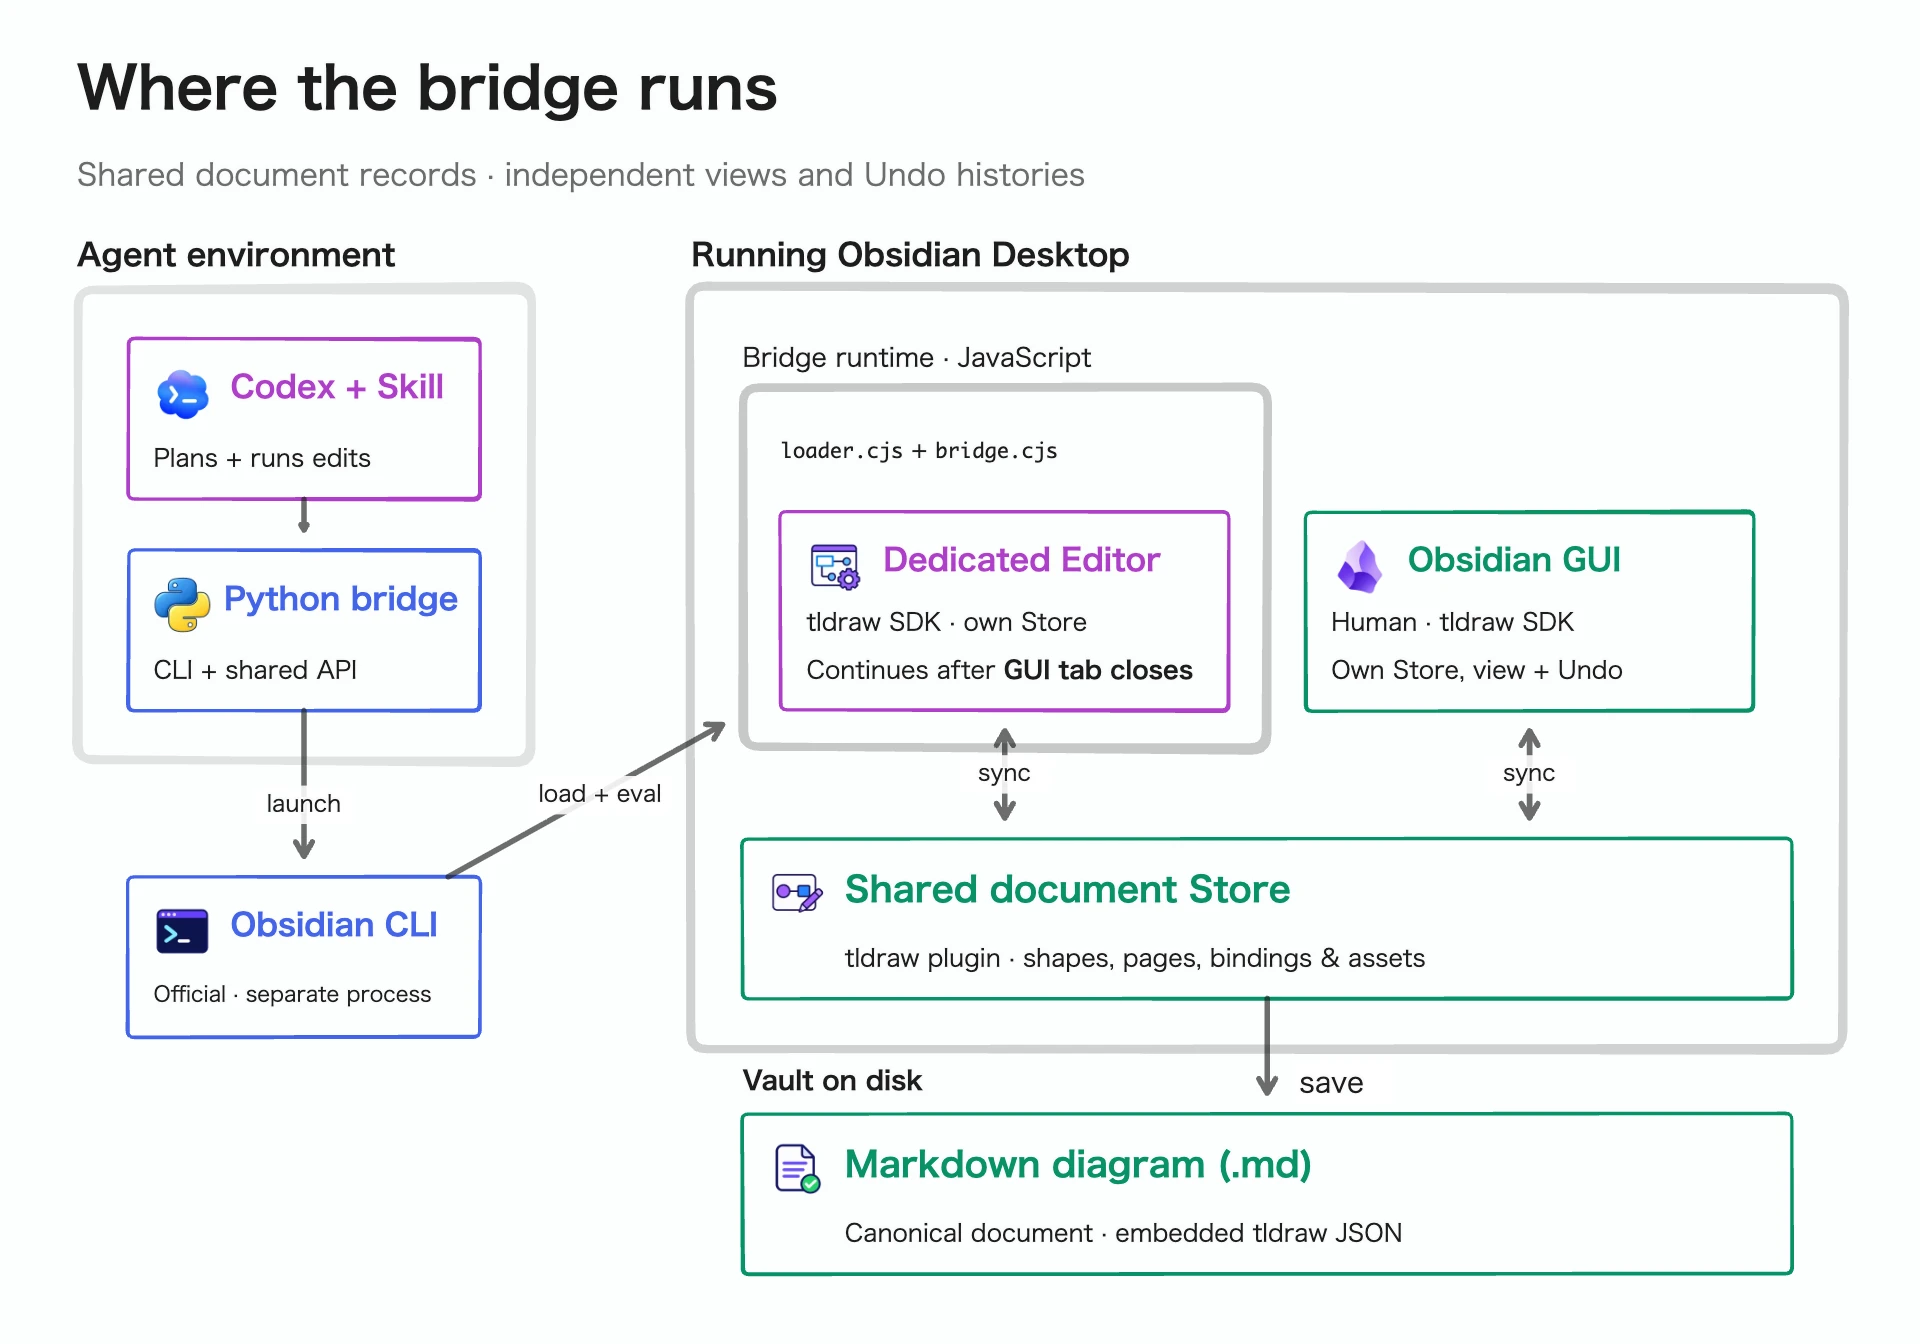
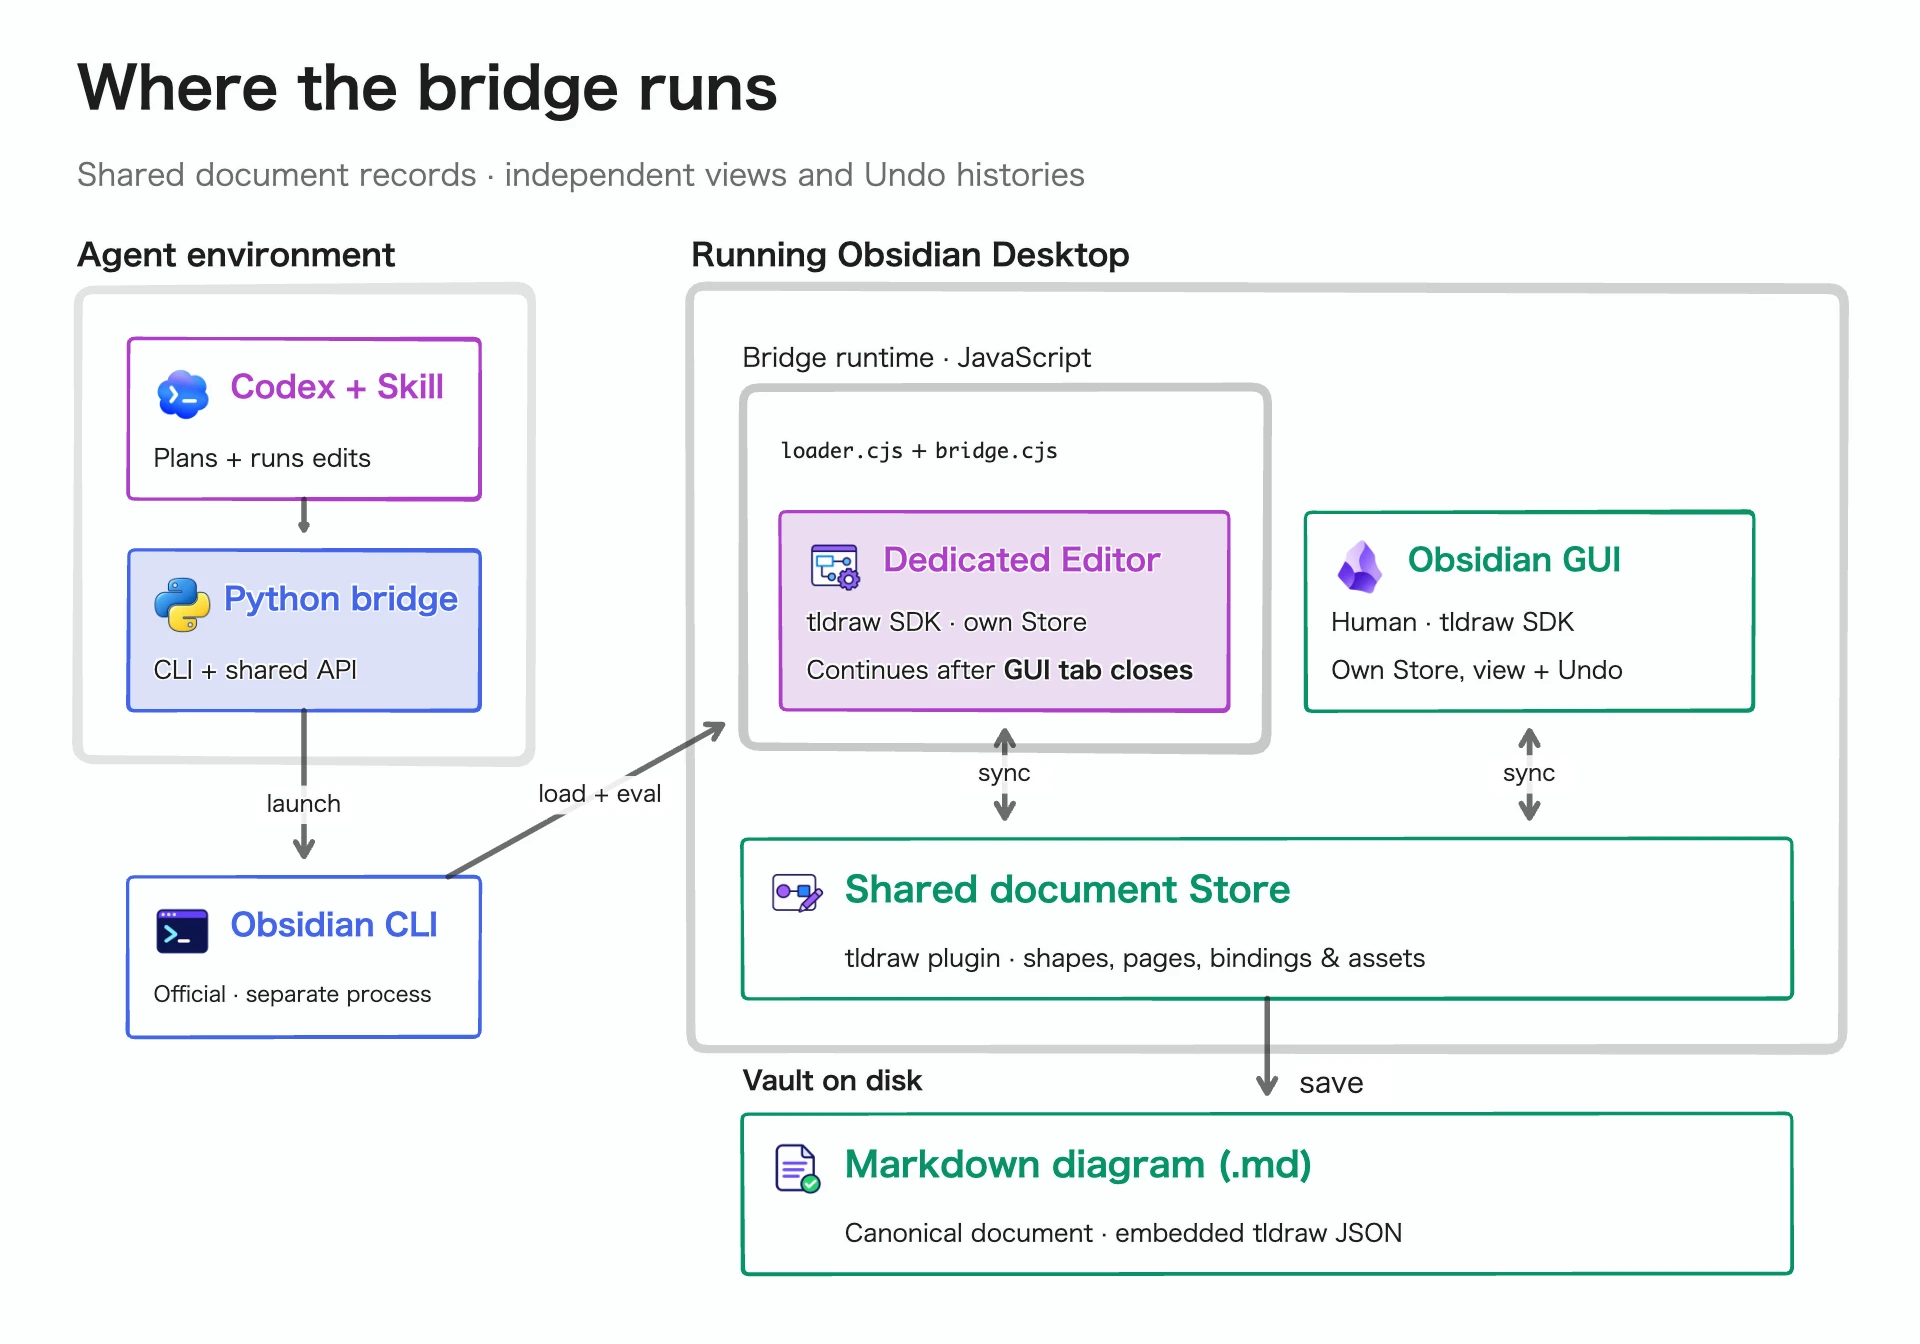
docs: refine diagram fills and refresh previews

Changed region(s): [[0.4062, 0.375, 0.6562, 0.5312], [0.0625, 0.4062, 0.25, 0.5312]]

diff --git a/docs/diagrams/diagramming-guide-design-system.md b/docs/diagrams/diagramming-guide-design-system.md
@@ -912,7 +912,7 @@ tags:
 					"flipY": false,
 					"color": "violet",
 					"labelColor": "black",
-					"fill": "solid",
+					"fill": "semi",
 					"size": "m",
 					"font": "sans",
 					"align": "start",
@@ -2184,7 +2184,7 @@ tags:
 					"flipY": false,
 					"color": "violet",
 					"labelColor": "black",
-					"fill": "solid",
+					"fill": "semi",
 					"size": "m",
 					"font": "sans",
 					"align": "start",
@@ -2677,7 +2677,7 @@ tags:
 					"flipY": false,
 					"color": "green",
 					"labelColor": "black",
-					"fill": "solid",
+					"fill": "semi",
 					"size": "m",
 					"font": "sans",
 					"align": "start",
@@ -4375,7 +4375,7 @@ tags:
 					"flipY": false,
 					"color": "green",
 					"labelColor": "black",
-					"fill": "solid",
+					"fill": "semi",
 					"size": "m",
 					"font": "sans",
 					"align": "start",
@@ -8244,7 +8244,7 @@ tags:
 					"flipY": false,
 					"color": "blue",
 					"labelColor": "black",
-					"fill": "none",
+					"fill": "semi",
 					"size": "s",
 					"font": "sans",
 					"align": "start",
@@ -9256,20 +9256,20 @@ tags:
 									"algorithm": "page-content-v2",
 									"sourcePageId": "page:page",
 									"source": {
[6 lines of base64/hex data omitted]
 										"hasAssets": false
 									},
 									"target": {
[6 lines of base64/hex data omitted]
 										"hasAssets": false
 									},
 									"kind": "adopt",
-									"reason": "Inspected both language pages at 1200px after matching heading emphasis; verified all original wording, shape IDs and bindings are preserved. English author heading widened to avoid wrapping.",
-									"reviewedAt": "2026-11-01T06:28:41.526Z"
+									"reason": "Inspected English and Japanese exports at 1200px after mirroring the user-authored semi fills on foundations, delivery, rationale and selected-case nodes. All wording, geometry, shape identities and bindings were preserved; meaning and readability remain aligned.",
+									"reviewedAt": "2026-11-01T06:54:23.865Z"
 								}
 							}
 						},
@@ -9537,7 +9537,7 @@ tags:
 					"flipY": false,
 					"color": "blue",
 					"labelColor": "black",
-					"fill": "none",
+					"fill": "semi",
 					"size": "s",
 					"font": "sans",
 					"align": "start",
@@ -9654,7 +9654,7 @@ tags:
 					"flipY": false,
 					"color": "violet",
 					"labelColor": "black",
-					"fill": "solid",
+					"fill": "semi",
 					"size": "m",
 					"font": "sans",
 					"align": "start",
@@ -11509,7 +11509,7 @@ tags:
 					"flipY": false,
 					"color": "violet",
 					"labelColor": "black",
-					"fill": "solid",
+					"fill": "semi",
 					"size": "m",
 					"font": "sans",
 					"align": "start",

diff --git a/docs/diagrams/architecture.md b/docs/diagrams/architecture.md
@@ -358,7 +358,7 @@ tags:
 					"font": "sans",
 					"scale": 1
 				},
-				"index": "b0btbTV",
+				"index": "b0Yol0V",
 				"typeName": "shape"
 			},
 			{
@@ -383,7 +383,7 @@ tags:
 					"flipY": false,
 					"color": "blue",
 					"labelColor": "black",
-					"fill": "none",
+					"fill": "solid",
 					"size": "s",
 					"font": "sans",
 					"align": "middle",
@@ -397,7 +397,7 @@ tags:
 						]
 					}
 				},
-				"index": "b0b8pQ",
+				"index": "b0OBHz",
 				"typeName": "shape"
 			},
 			{
@@ -1529,7 +1529,7 @@ tags:
 					"flipY": false,
 					"color": "violet",
 					"labelColor": "black",
-					"fill": "none",
+					"fill": "solid",
 					"size": "s",
 					"font": "sans",
 					"align": "middle",
@@ -1543,7 +1543,7 @@ tags:
 						]
 					}
 				},
-				"index": "b0mlEb",
+				"index": "b0PKDQ",
 				"typeName": "shape"
 			},
 			{

diff --git a/docs/diagrams/agent-instruction-scope.md b/docs/diagrams/agent-instruction-scope.md
@@ -583,7 +583,7 @@ tags:
 					"flipY": false,
 					"color": "blue",
 					"labelColor": "black",
-					"fill": "solid",
+					"fill": "semi",
 					"size": "m",
 					"font": "sans",
 					"align": "start",
